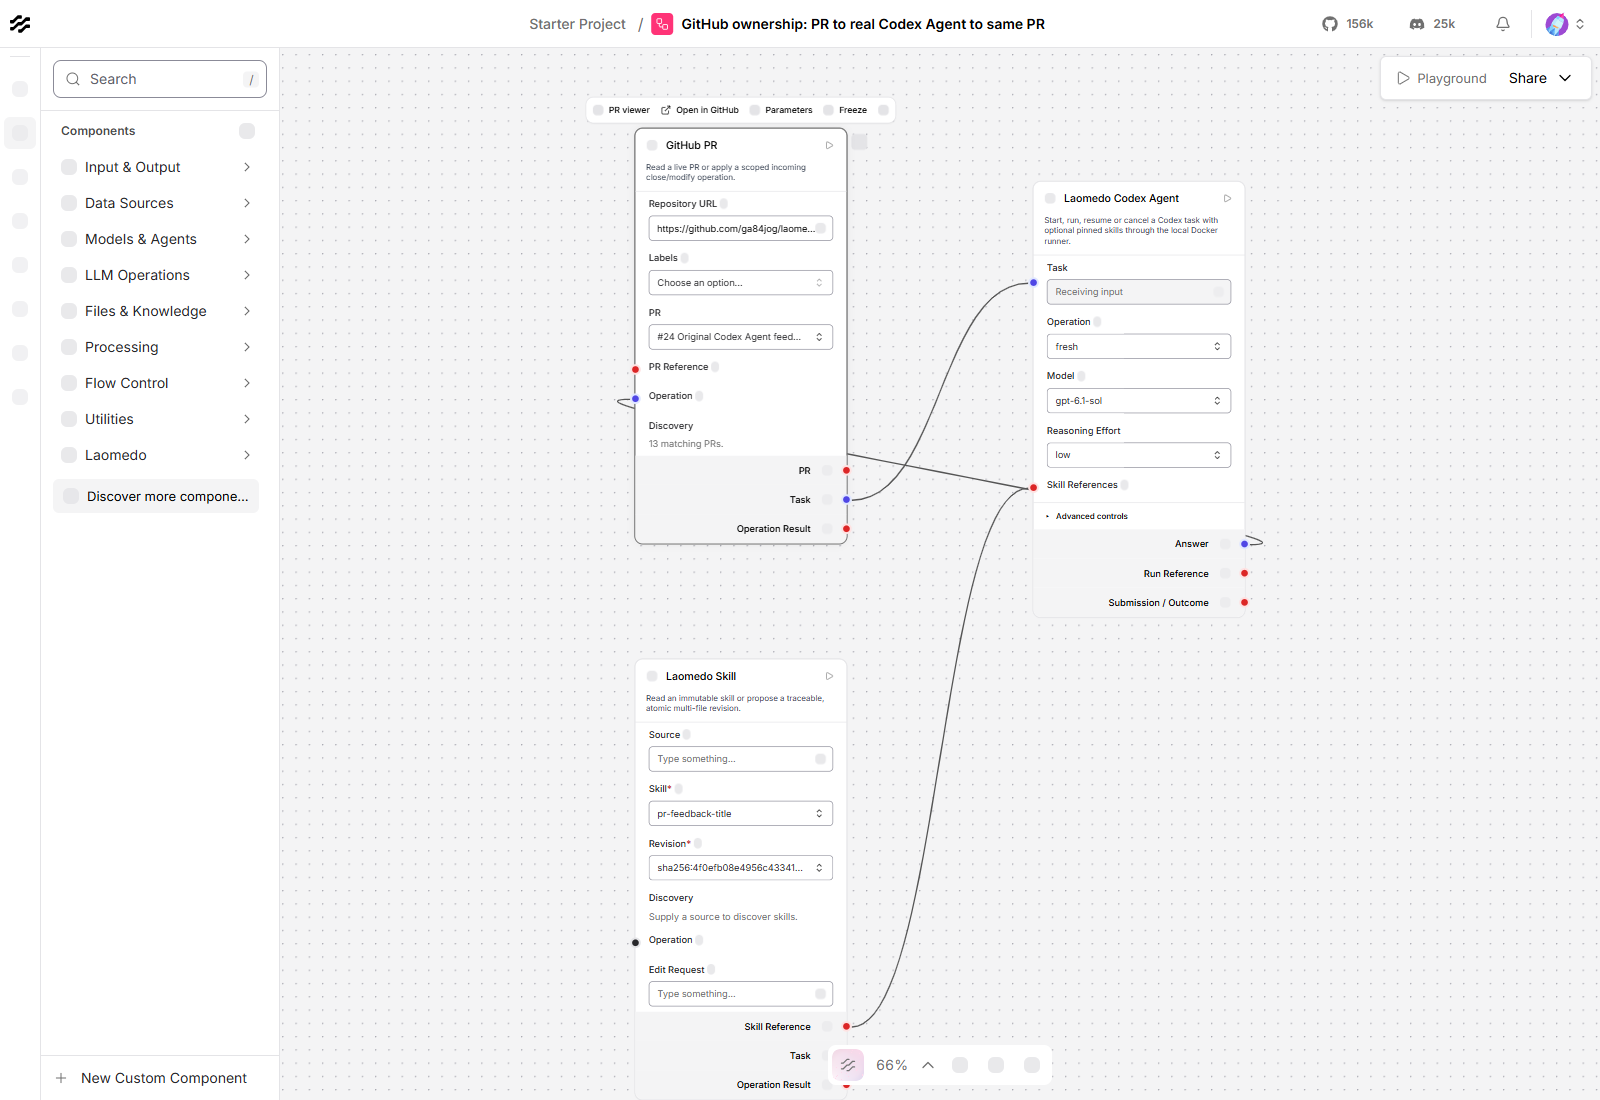
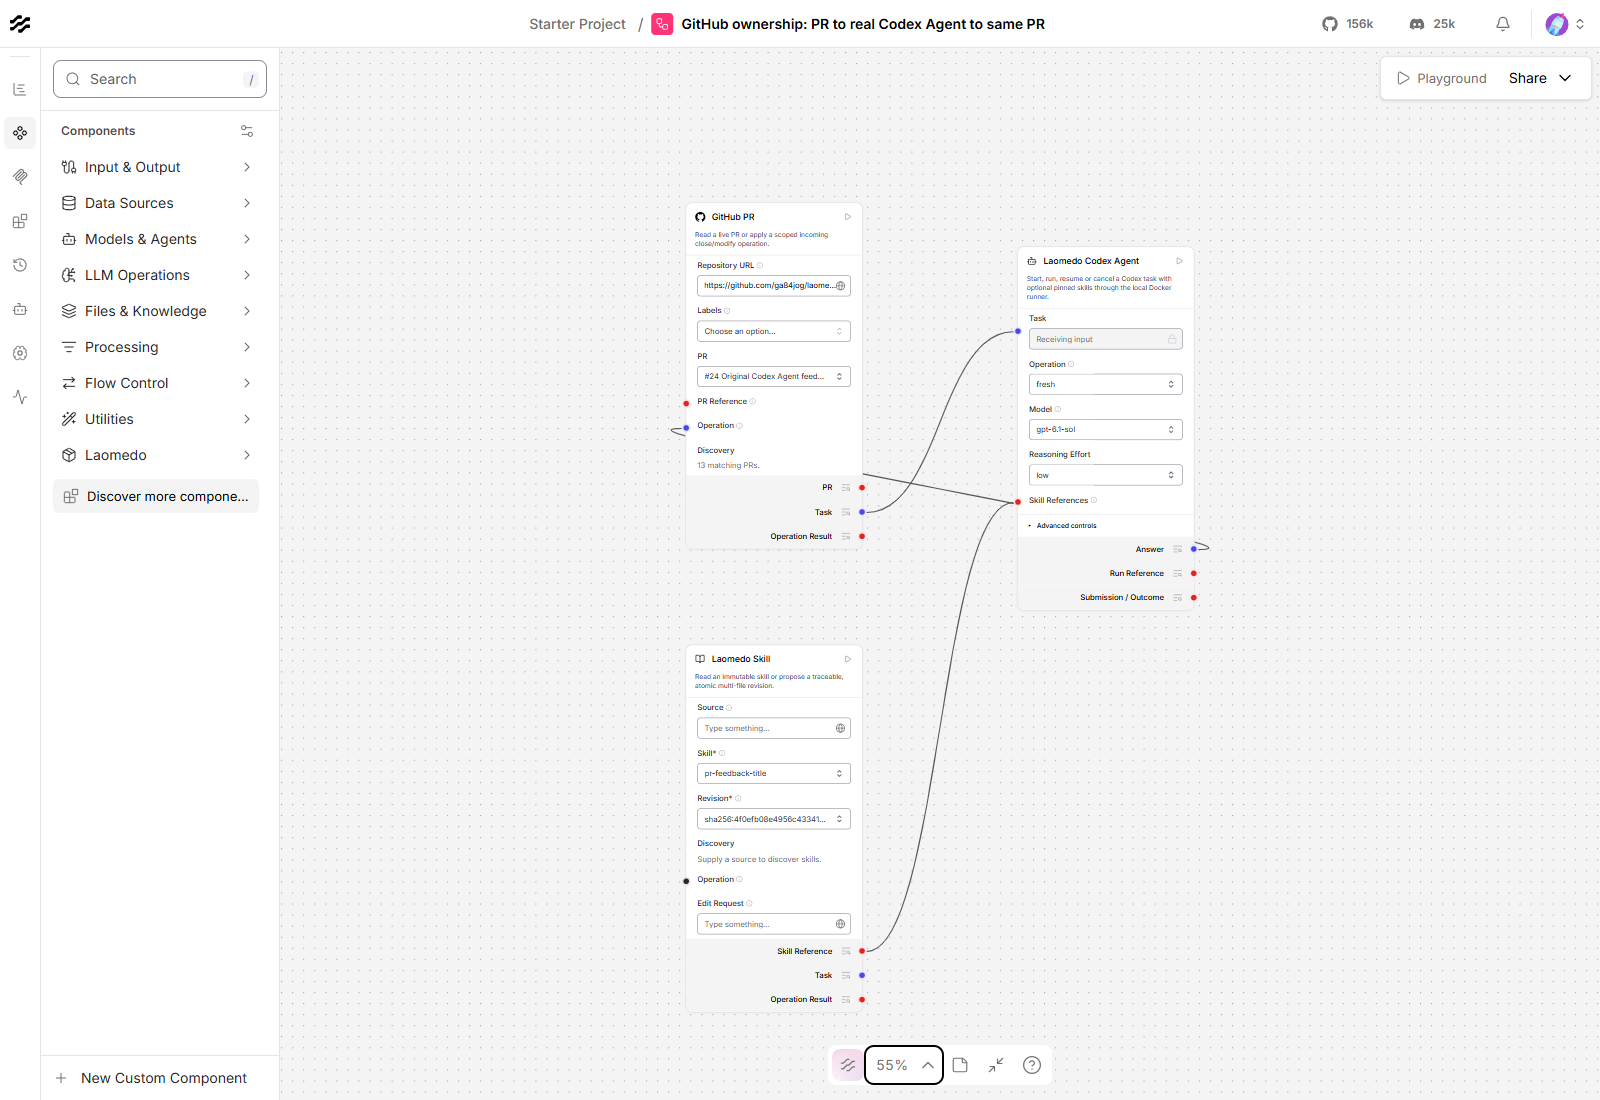
docs: clarify local runner addressing and graph navigation

diff --git a/examples/github/README.md b/examples/github/README.md
@@ -76,8 +76,12 @@ Follow the [PR walkthrough](../../docs/features/github/pull-requests/walkthrough
 for service and grant setup. Credentials belong outside the graph and Git.
 
 ```powershell
-python examples/github/build_flow.py --repository OWNER/REPO --number NUMBER --title "Current title" --feedback --runner-url http://host.docker.internal:PORT --skill-id pr-feedback-title --revision sha256:REVISION --output pr-flow.json
+python examples/github/build_flow.py --repository OWNER/REPO --number NUMBER --title "Current title" --feedback --runner-url http://127.0.0.1:PORT --skill-id pr-feedback-title --revision sha256:REVISION --output pr-flow.json
 ```
+
+Use a runner URL reachable from the app backend: `127.0.0.1` for a native local
+app, or the appropriate host address (such as `host.docker.internal`) when that
+backend runs inside Docker.
 
 The two operation participants are `PR → Agent → same PR.Operation`; an
 independent read-only Skill supplies the trusted instruction. Run the PR node
